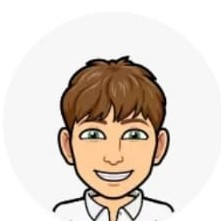
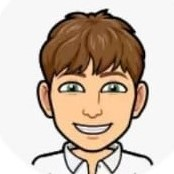
name title added with cartoon

diff --git a/index.css b/index.css
@@ -8,27 +8,16 @@
     margin: 0 auto;
 }
 
-
 .container {
     width: calc(100% - 18rem);
-    background: rgba(116,122,140,0.6);
     position: relative;
     left: 18rem;
     height: 100vh;
-    top: 20vh;
+    top: 8rem;
     z-index: 0;
     margin: 0;
 }
 
-.name-container {
-    background: pink;
-    height: 20vh;
-    width: 100%;
-    position: fixed;
-    left: 18rem;
-    margin-right: 10rem;
-    z-index: 1000;
-}
 
 nav {
     position: fixed;
@@ -66,18 +55,31 @@ nav {
     border: 1px solid pink;
 }
 
+
+.name-container {
+    background: pink;
+    height: 8rem;
+    width: 100%;
+    position: fixed;
+    left: 18rem;
+    margin-right: 10rem;
+    z-index: 1000;
+}
+
 #title-name {
     font-family: ThreeDimentionalFont, sans-serif;
     color: black;
-    width: 37.5%;
-    position: relative;
-    left: 2rem;
-    margin: 0;
-    top: 2rem;
-    padding: 2px;
-    border-radius: 1rem;
-    text-align: center;
     font-size: 30px;
+    display: inline;
+    position: fixed;
+    top: 2rem;
 }
 
+#cartoon-me {
+    border-radius: 50%;
+    margin: 1rem 1rem 0 2rem;
+    display: inline;
+    max-height: 5rem;
+    max-width: 5rem;
+}
 

diff --git a/index.html b/index.html
@@ -24,6 +24,7 @@
 
 <!--name in big on top all the time-->
     <div class="name-container">
+        <img id="cartoon-me" src="src/cartoon-me.jpeg" alt="cartoon version of me made by snapchat">
         <h1 id="title-name">Jordi Vanheeswyck</h1>
     </div>
 
